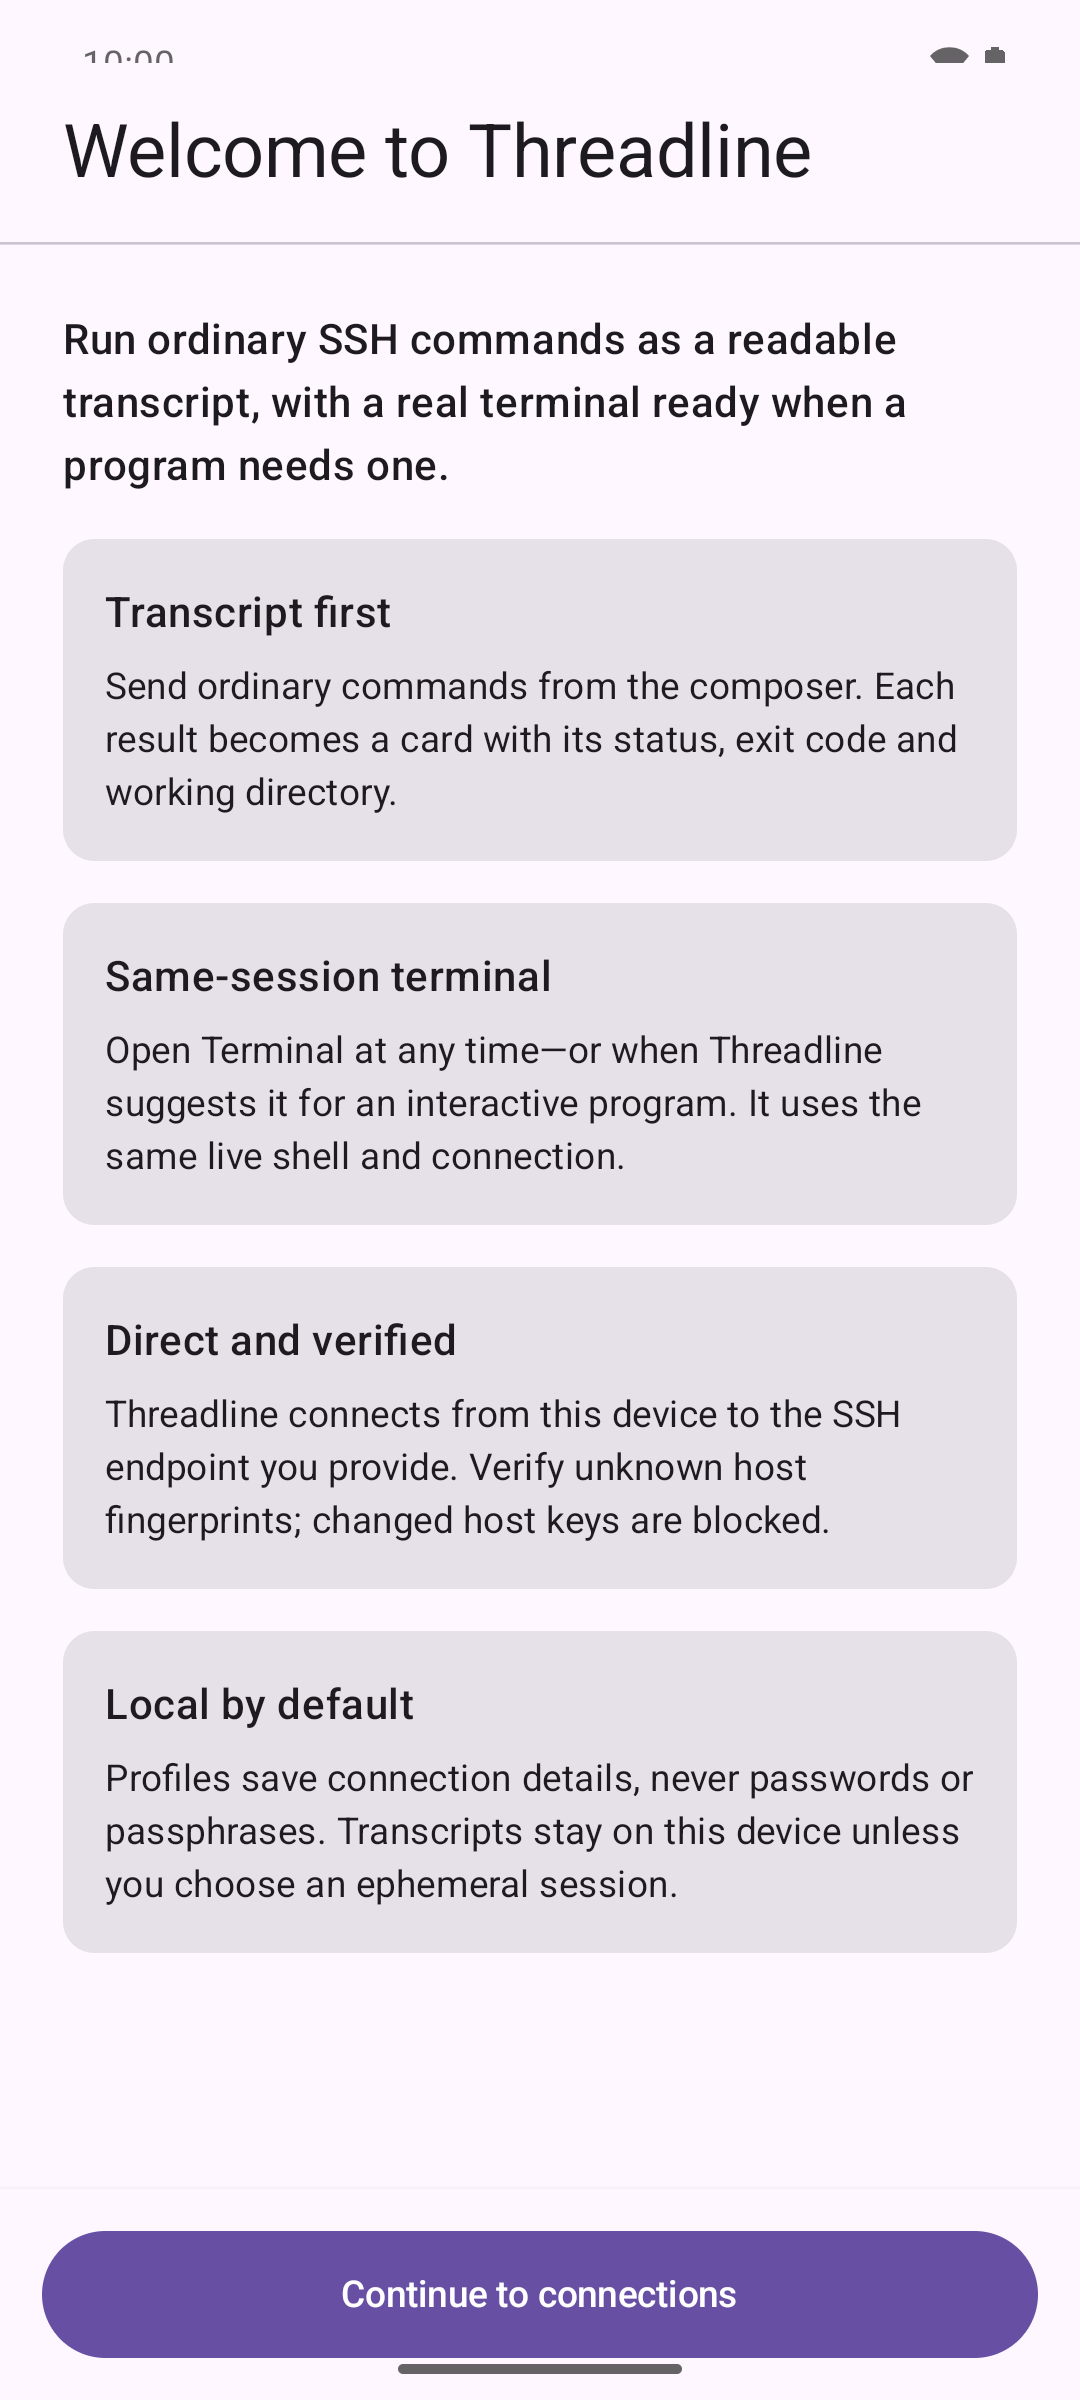
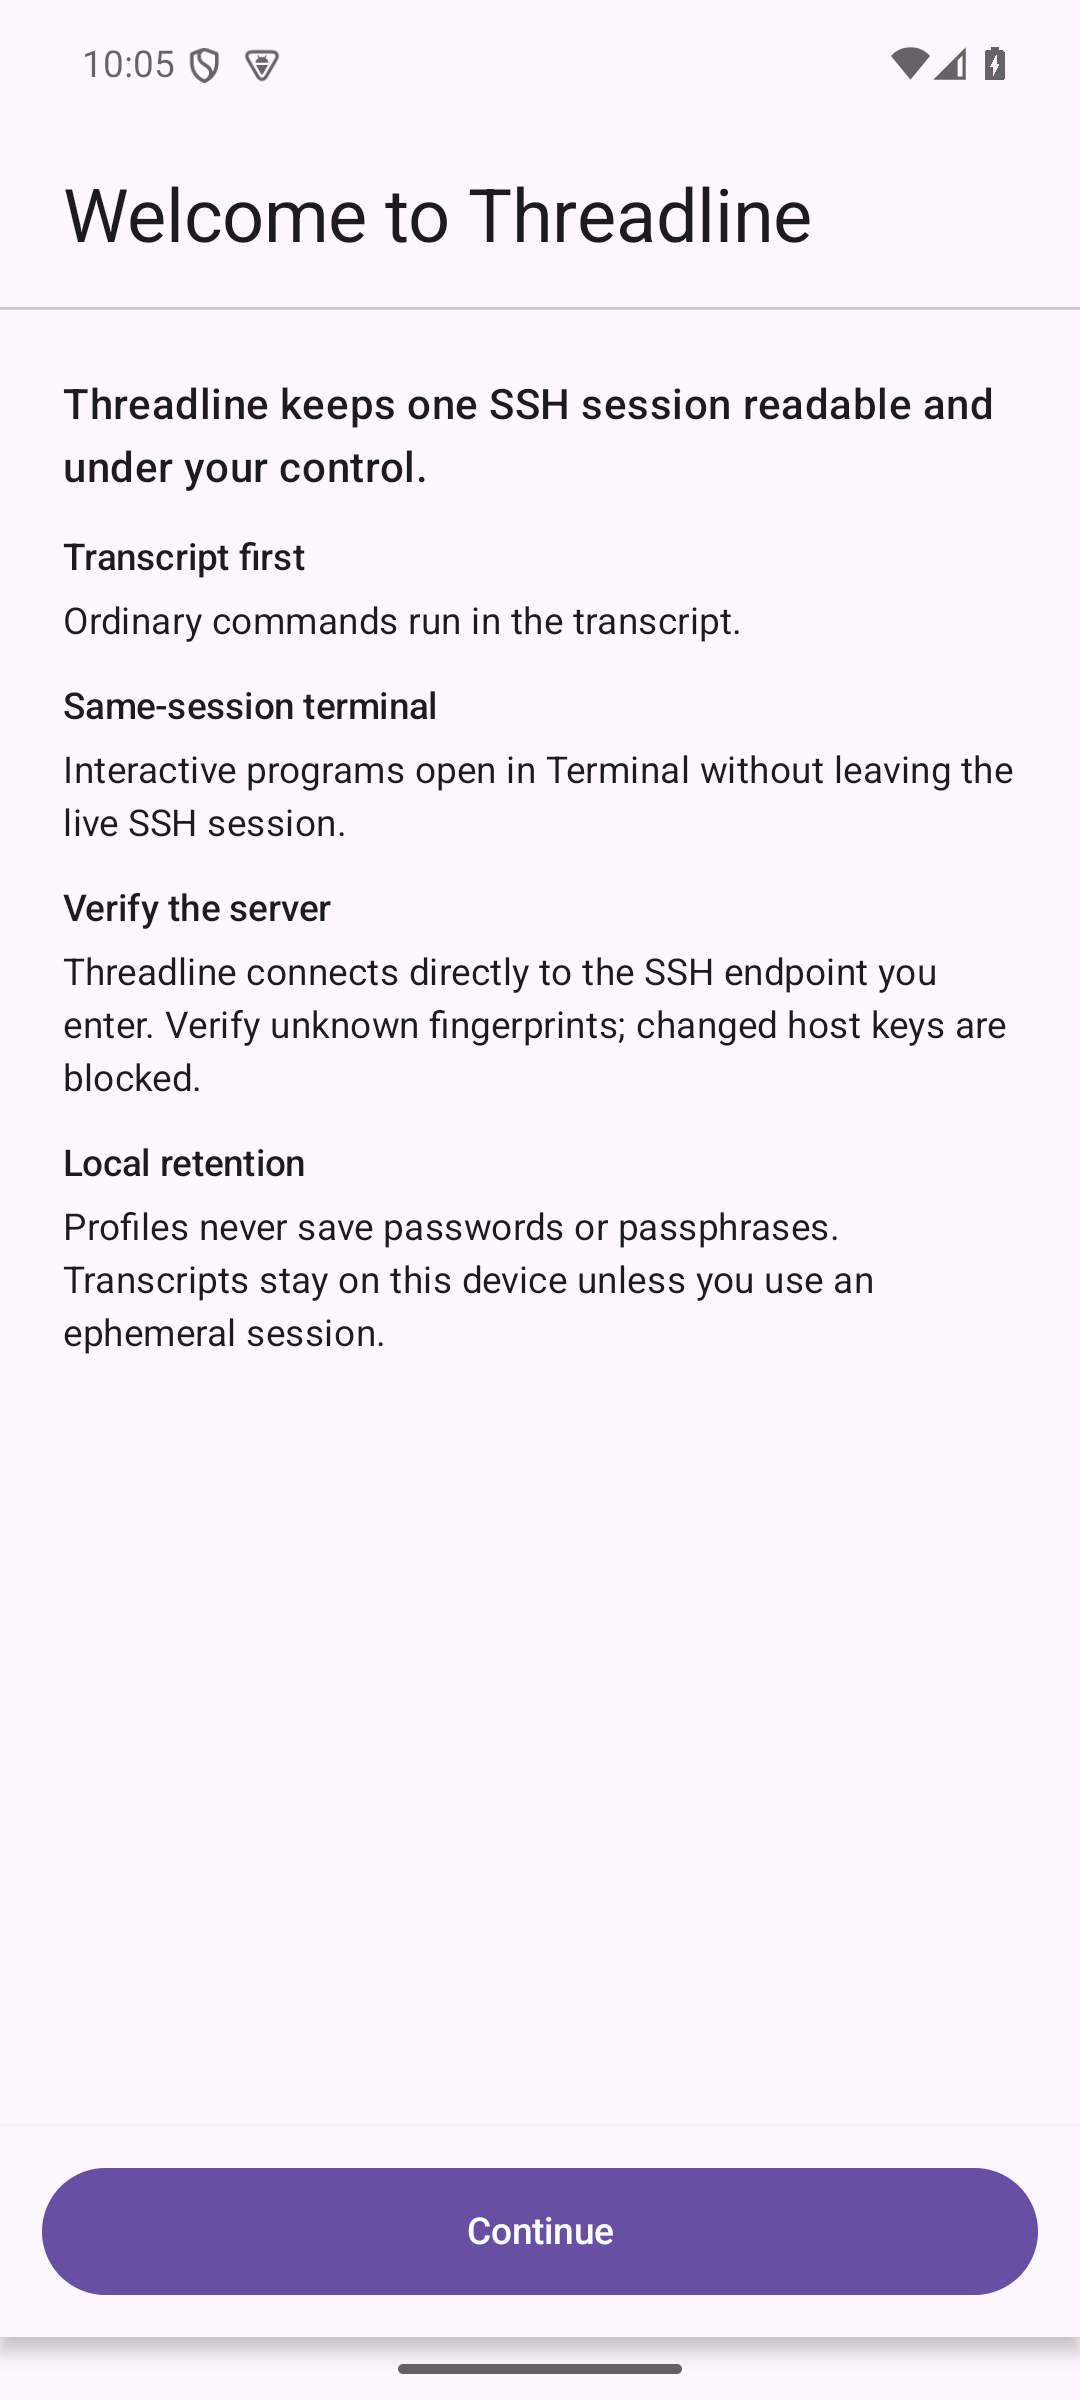
Compress first-run onboarding (#35)

diff --git a/app/src/main/java/dev/threadline/Onboarding.kt b/app/src/main/java/dev/threadline/Onboarding.kt
@@ -7,12 +7,12 @@ import androidx.compose.foundation.layout.Column
 import androidx.compose.foundation.layout.PaddingValues
 import androidx.compose.foundation.layout.fillMaxSize
 import androidx.compose.foundation.layout.fillMaxWidth
+import androidx.compose.foundation.layout.navigationBarsPadding
 import androidx.compose.foundation.layout.padding
 import androidx.compose.foundation.layout.statusBarsPadding
 import androidx.compose.foundation.rememberScrollState
 import androidx.compose.foundation.verticalScroll
 import androidx.compose.material3.Button
-import androidx.compose.material3.Card
 import androidx.compose.material3.HorizontalDivider
 import androidx.compose.material3.MaterialTheme
 import androidx.compose.material3.Scaffold
@@ -54,6 +54,7 @@ internal object OnboardingTags {
 @Composable
 internal fun OnboardingScreen(
     onContinue: () -> Unit,
+    modifier: Modifier = Modifier,
 ) {
     Scaffold(
         topBar = {
@@ -69,7 +70,10 @@ internal fun OnboardingScreen(
             }
         },
         bottomBar = {
-            Surface(shadowElevation = 4.dp) {
+            Surface(
+                shadowElevation = 4.dp,
+                modifier = Modifier.navigationBarsPadding(),
+            ) {
                 Button(
                     onClick = onContinue,
                     modifier = Modifier
@@ -78,11 +82,11 @@ internal fun OnboardingScreen(
                         .testTag(OnboardingTags.CONTINUE),
                     contentPadding = PaddingValues(vertical = 14.dp),
                 ) {
-                    Text("Continue to connections")
+                    Text("Continue")
                 }
             }
         },
-        modifier = Modifier.testTag(OnboardingTags.SCREEN),
+        modifier = modifier.testTag(OnboardingTags.SCREEN),
     ) { contentPadding ->
         Column(
             modifier = Modifier
@@ -90,32 +94,29 @@ internal fun OnboardingScreen(
                 .padding(contentPadding)
                 .verticalScroll(rememberScrollState())
                 .padding(24.dp),
-            verticalArrangement = Arrangement.spacedBy(16.dp),
+            verticalArrangement = Arrangement.spacedBy(12.dp),
         ) {
             Text(
-                "Run ordinary SSH commands as a readable transcript, with a real terminal " +
-                    "ready when a program needs one.",
+                "Threadline keeps one SSH session readable and under your control.",
                 style = MaterialTheme.typography.titleMedium,
             )
             IntroductionPoint(
                 title = "Transcript first",
-                body = "Send ordinary commands from the composer. Each result becomes a card " +
-                    "with its status, exit code and working directory.",
+                body = "Ordinary commands run in the transcript.",
             )
             IntroductionPoint(
                 title = "Same-session terminal",
-                body = "Open Terminal at any time—or when Threadline suggests it for an " +
-                    "interactive program. It uses the same live shell and connection.",
+                body = "Interactive programs open in Terminal without leaving the live SSH session.",
             )
             IntroductionPoint(
-                title = "Direct and verified",
-                body = "Threadline connects from this device to the SSH endpoint you provide. " +
-                    "Verify unknown host fingerprints; changed host keys are blocked.",
+                title = "Verify the server",
+                body = "Threadline connects directly to the SSH endpoint you enter. Verify unknown " +
+                    "fingerprints; changed host keys are blocked.",
             )
             IntroductionPoint(
-                title = "Local by default",
-                body = "Profiles save connection details, never passwords or passphrases. " +
-                    "Transcripts stay on this device unless you choose an ephemeral session.",
+                title = "Local retention",
+                body = "Profiles never save passwords or passphrases. Transcripts stay on this " +
+                    "device unless you use an ephemeral session.",
             )
         }
     }
@@ -126,17 +127,15 @@ private fun IntroductionPoint(
     title: String,
     body: String,
 ) {
-    Card(modifier = Modifier.fillMaxWidth()) {
-        Column(
-            modifier = Modifier.padding(16.dp),
-            verticalArrangement = Arrangement.spacedBy(6.dp),
-        ) {
-            Text(
-                text = title,
-                style = MaterialTheme.typography.titleMedium,
-                modifier = Modifier.semantics { heading() },
-            )
-            Text(text = body, style = MaterialTheme.typography.bodyMedium)
-        }
+    Column(
+        modifier = Modifier.fillMaxWidth(),
+        verticalArrangement = Arrangement.spacedBy(4.dp),
+    ) {
+        Text(
+            text = title,
+            style = MaterialTheme.typography.titleSmall,
+            modifier = Modifier.semantics { heading() },
+        )
+        Text(text = body, style = MaterialTheme.typography.bodyMedium)
     }
 }

diff --git a/app/src/androidTest/java/dev/threadline/OnboardingTest.kt b/app/src/androidTest/java/dev/threadline/OnboardingTest.kt
@@ -1,8 +1,11 @@
 package dev.threadline
 
 import android.content.Context
+import androidx.compose.foundation.layout.Box
+import androidx.compose.foundation.layout.size
 import androidx.compose.material3.MaterialTheme
 import androidx.compose.runtime.CompositionLocalProvider
+import androidx.compose.ui.Modifier
 import androidx.compose.ui.platform.LocalDensity
 import androidx.compose.ui.semantics.SemanticsProperties
 import androidx.compose.ui.test.SemanticsMatcher
@@ -14,6 +17,7 @@ import androidx.compose.ui.test.onNodeWithText
 import androidx.compose.ui.test.performClick
 import androidx.compose.ui.test.performScrollTo
 import androidx.compose.ui.unit.Density
+import androidx.compose.ui.unit.dp
 import androidx.test.platform.app.InstrumentationRegistry
 import org.junit.Assert.assertFalse
 import org.junit.Assert.assertTrue
@@ -39,33 +43,42 @@ class OnboardingTest {
         compose.onNodeWithText("Transcript first").assert(
             SemanticsMatcher.keyIsDefined(SemanticsProperties.Heading),
         )
-        compose.onNodeWithText("Same-session terminal").performScrollTo().assertIsDisplayed()
-        compose.onNodeWithText("Direct and verified").performScrollTo().assertIsDisplayed()
-        compose.onNodeWithText("Local by default").performScrollTo().assertIsDisplayed()
-        compose.onNodeWithText("never passwords or passphrases", substring = true)
+        compose.onNodeWithText("Same-session terminal").assert(
+            SemanticsMatcher.keyIsDefined(SemanticsProperties.Heading),
+        )
+        compose.onNodeWithText("Verify the server").assert(
+            SemanticsMatcher.keyIsDefined(SemanticsProperties.Heading),
+        )
+        compose.onNodeWithText("Local retention").performScrollTo().assert(
+            SemanticsMatcher.keyIsDefined(SemanticsProperties.Heading),
+        )
+        compose.onNodeWithText("Profiles never save passwords or passphrases", substring = true)
             .assertExists()
         compose.onNodeWithText("changed host keys are blocked", substring = true)
             .assertExists()
+        compose.onNodeWithText("ephemeral session", substring = true).assertExists()
 
         compose.onNodeWithTag(OnboardingTags.CONTINUE).performClick()
         compose.runOnIdle { assertTrue(continued) }
     }
 
     @Test
-    fun introductionRemainsNavigableAtTwoHundredPercentFontScale() {
+    fun continueRemainsReachableInCompactLandscapeAtTwoHundredPercentFontScale() {
         compose.setContent {
             val density = LocalDensity.current
             CompositionLocalProvider(
                 LocalDensity provides Density(density.density, fontScale = 2f),
             ) {
                 MaterialTheme {
-                    OnboardingScreen(onContinue = {})
+                    Box(modifier = Modifier.size(width = 360.dp, height = 320.dp)) {
+                        OnboardingScreen(onContinue = {})
+                    }
                 }
             }
         }
 
         compose.onNodeWithTag(OnboardingTags.CONTINUE).assertIsDisplayed()
-        compose.onNodeWithText("Local by default").performScrollTo().assertIsDisplayed()
+        compose.onNodeWithText("Local retention").performScrollTo().assertIsDisplayed()
         compose.onNodeWithText("Transcript first").performScrollTo().assertIsDisplayed()
     }
 

diff --git a/app/src/main/java/dev/threadline/MainActivity.kt b/app/src/main/java/dev/threadline/MainActivity.kt
@@ -279,8 +279,16 @@ private fun ThreadlineApp() {
         mutableStateOf(ConnectionFormDraft.emptyDefaults())
     }
     val onboardingPreferences = remember(context) { OnboardingPreferences.create(context) }
+    val introductionRequired = remember(onboardingPreferences) {
+        onboardingPreferences.shouldShowIntroduction()
+    }
     var showIntroduction by rememberSaveable {
-        mutableStateOf(onboardingPreferences.shouldShowIntroduction())
+        mutableStateOf(introductionRequired)
+    }
+    var homeTaskAfterIntroduction by rememberSaveable {
+        mutableStateOf(
+            if (introductionRequired) HomeTask.CONNECTION else HomeTask.OVERVIEW,
+        )
     }
     var selectedHostProfileId by rememberSaveable { mutableStateOf<String?>(null) }
     var showConnectedSession by rememberSaveable { mutableStateOf(true) }
@@ -348,6 +356,13 @@ private fun ThreadlineApp() {
     val canShowIntroduction = state is SessionState.Disconnected ||
         state is SessionState.Failed ||
         state is SessionState.Connected && !showConnectedSession
+    val initialHomeTask = when {
+        state is SessionState.Failed -> HomeTask.CONNECTION
+        else -> homeTaskAfterIntroduction
+    }
+    LaunchedEffect(showIntroduction) {
+        if (!showIntroduction) homeTaskAfterIntroduction = HomeTask.OVERVIEW
+    }
     if (showIntroduction && canShowIntroduction) {
         OnboardingScreen(
             onContinue = {
@@ -381,11 +396,7 @@ private fun ThreadlineApp() {
                 ?.takeUnless { it == SessionError.NotificationPermissionRequired },
             activeSessionDisplayName = (current as? SessionState.Connected)?.displayName,
             connectionEnabled = current !is SessionState.Connected,
-            initialTask = if (current is SessionState.Failed) {
-                HomeTask.CONNECTION
-            } else {
-                HomeTask.OVERVIEW
-            },
+            initialTask = initialHomeTask,
             onReturnToActiveSession = { showConnectedSession = true },
             onDisconnectActiveSession = manager::disconnect,
             hostProfiles = hostProfiles,
@@ -406,7 +417,10 @@ private fun ThreadlineApp() {
             onLoadPrivateKey = SessionRuntime.importedPrivateKeys::credential,
             onRenamePrivateKey = SessionRuntime.importedPrivateKeys::rename,
             onDeletePrivateKey = SessionRuntime.importedPrivateKeys::delete,
-            onOpenIntroduction = { showIntroduction = true },
+            onOpenIntroduction = {
+                homeTaskAfterIntroduction = HomeTask.OVERVIEW
+                showIntroduction = true
+            },
             onOpenDiagnostics = openDiagnostics,
             onOpenNotificationSettings = { openNotificationSettings(context) },
             notificationPermissionState = sessionNotificationPermissionState(

diff --git a/PROJECT_SPEC.md b/PROJECT_SPEC.md
@@ -87,11 +87,12 @@ On the first app launch, the user sees one compact, scrollable introduction that
 The introduction is acknowledged explicitly, its version is stored in app-private preferences,
 and it can be reopened from Help. It is not an account setup flow or a multi-page tutorial.
 
-After the introduction, the user sees Home. With no active session, Home shows saved connections
-and a primary action for starting a new connection. Selecting either opens the focused connection
-editor; users do not cross transcript history or trust-management content to reach credentials and
-the connect action. Only the standard SSH port `22` is prefilled for a new connection;
-development-fixture values are never production defaults.
+After the first-run introduction, the user enters the focused connection editor directly. On later
+launches with no active session, Home shows saved connections and a primary action for starting a
+new connection. Selecting either opens the focused connection editor; users do not cross transcript
+history or trust-management content to reach credentials and the connect action. Only the standard
+SSH port `22` is prefilled for a new connection; development-fixture values are never production
+defaults.
 
 Home has explicit task states:
 

diff --git a/docs/screenshots.md b/docs/screenshots.md
@@ -1,9 +1,10 @@
 # Threadline prototype screenshots
 
-These screenshots were captured on 2026-08-01 from the current Android prototype
-on an API 35 emulator at the default font scale. They use the repository's local
-OpenSSH fixture, its documented emulator address, and synthetic test output. No
-production host, credential, command, or server fingerprint is shown.
+These screenshots were captured from the Android prototype on an API 35 emulator
+at the default font scale. The onboarding capture was refreshed on 2026-09-06;
+the remaining captures are from 2026-08-01. They use the repository's local OpenSSH
+fixture, its documented emulator address, and synthetic test output. No production
+host, credential, command, or server fingerprint is shown.
 
 The screenshots document working behavior. Typography, spacing, color, and
 responsive layout remain prototype UI rather than a final visual design.
